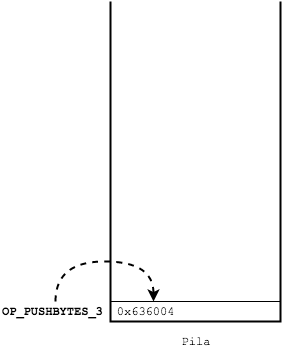
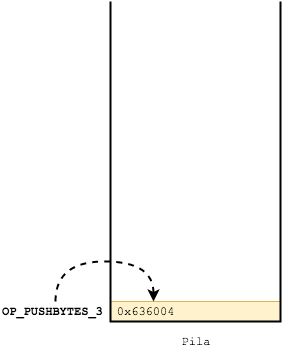
Add new stack images and update Tex file.

Changed region(s): [[0.3675, 0.8438, 0.9894, 0.9375]]

diff --git a/Bitcoin_script_language_es.tex b/Bitcoin_script_language_es.tex
@@ -266,22 +266,23 @@
         \end{array}$
     \end{figure}
     
-    Este \textit{script} introducirá diferentes datos en una pila que inicialmente está vacía. Para evitar que varias transacciones de tipo \textit{Coinbase} pertenecientes a diferentes bloques tengan el mismo valor en TXID se decidió implementar mediante la propuesta BIP34\footnote{https://github.com/bitcoin/bips/blob/master/bip-0034.mediawiki} un sistema que añade al inicio del \textit{script} un bloque de 4 \textit{bytes}, dividido en las siguientes dos secciones:
+    Este \textit{script} introducirá diferentes datos en una pila que inicialmente está vacía. Para evitar que varias transacciones de tipo \textit{Coinbase} pertenecientes a diferentes bloques tengan el mismo valor en TXID se decidió implementar mediante la propuesta BIP34\footnote{https://github.com/bitcoin/bips/blob/master/bip-0034.mediawiki} un sistema que añade al inicio del \textit{script} un bloque de 4 \textit{bytes}, dividido en las siguientes dos secciones. La primera es una constante de 1 \textit{byte} de longitud que representa un OP\_CODE, en este caso con valor \texttt{0x03},
     
-    \begin{itemize}
-    \item La primera es una constante\footnote{https://en.bitcoin.it/wiki/Script\#Constants} de 1 \textit{byte} de longitud que representa un OP\_CODE, en este caso con valor \texttt{0x03}, e indica que el siguiente dato que se va a colocar en la pila tiene una longitud de 3 \textit{bytes}. Para ello se utiliza el OP\_CODE \textbf{\texttt{OP\_PUSHBYTES\_3}}.
-    \item La segunda sección es un dato de 3 \textit{bytes} en formato \textit{Little-Endian} que representan la altura o el número del bloque al que pertenece la transacción \textit{Coinbase}, en este caso \texttt{0x636004}. La transacción \textit{Coinbase} que se ha utilizado en este ejemplo pertenece al bloque número \texttt{\#}286819 de la cadena de bloques de \textit{Bitcoin} en la red principal \textit{mainnet}. Si se convierten los 3 \textit{bytes} \texttt{0x636004} a formato \textit{Big-Endian} se obtiene el valor hexadecimal \texttt{0x046063}, que en base 10 o decimal es el número 286819 y se corresponde con el número de bloque al que pertenece esta transacción.
-    \end{itemize}
-    
-    \begin{minipage}{0.45\textwidth}
-        \includegraphics[scale=0.57]{img/Bitcoin_transactions_stack_01.png}
+    \vspace{1mm}
+    \noindent
+    \begin{minipage}{0.50\textwidth}
+        \includegraphics[scale=0.55]{img/Bitcoin_transactions_stack_01.png}
     \end{minipage}
     \hfill
-    \begin{minipage}{0.45\textwidth}
-        Así pues, mediante la instrucción \textbf{\texttt{OP\_PUSHBYTES\_3}} se añaden los siguientes 3 \textit{bytes} a la pila.
+    \begin{minipage}{0.50\textwidth}
+        e indica que el siguiente dato que se va a colocar en la pila tiene una longitud de 3 \textit{bytes}. Para ello se utiliza el OP\_CODE \textbf{\texttt{OP\_PUSHBYTES\_3}}.
+        
+        La segunda sección es un dato de 3 \textit{bytes} en formato \textit{Little-Endian} que representan la altura o el número del bloque al que pertenece la transacción \textit{Coinbase}, en este caso \texttt{0x636004}. La transacción \textit{Coinbase} que se ha utilizado en este ejemplo pertenece al bloque número \texttt{\#}286819 de la cadena de bloques de \textit{Bitcoin} en la red principal \textit{mainnet}. Si se convierten los 3 \textit{bytes} \texttt{0x636004} a formato \textit{Big-Endian} se obtiene el valor hexadecimal \texttt{0x046063}, que en base 10 o decimal es el número 286819 y se corresponde con el número de bloque al que pertenece esta transacción.
     \end{minipage}
     
-    
+     \vspace{1mm}
+     
+    Así pues, mediante la instrucción \textbf{\texttt{OP\_PUSHBYTES\_3}} se añaden los siguientes 3 \textit{bytes} a la pila.
     
     \subsubsection{Sequence}
     
